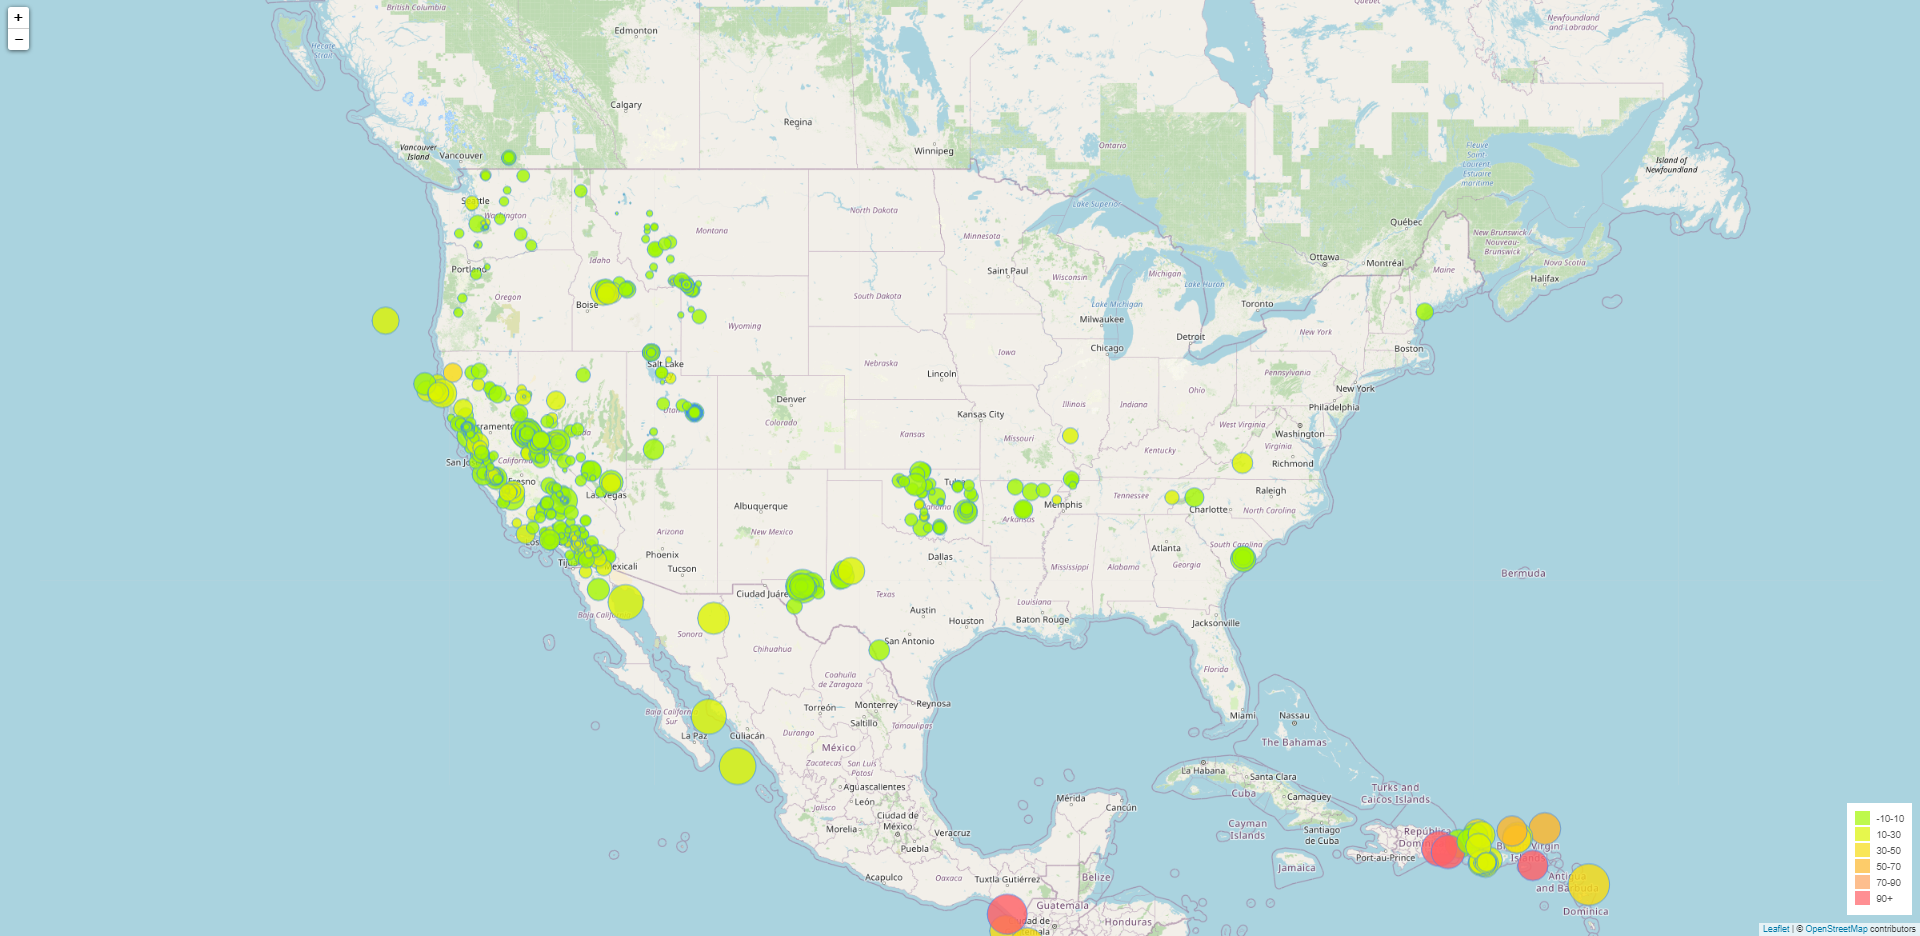
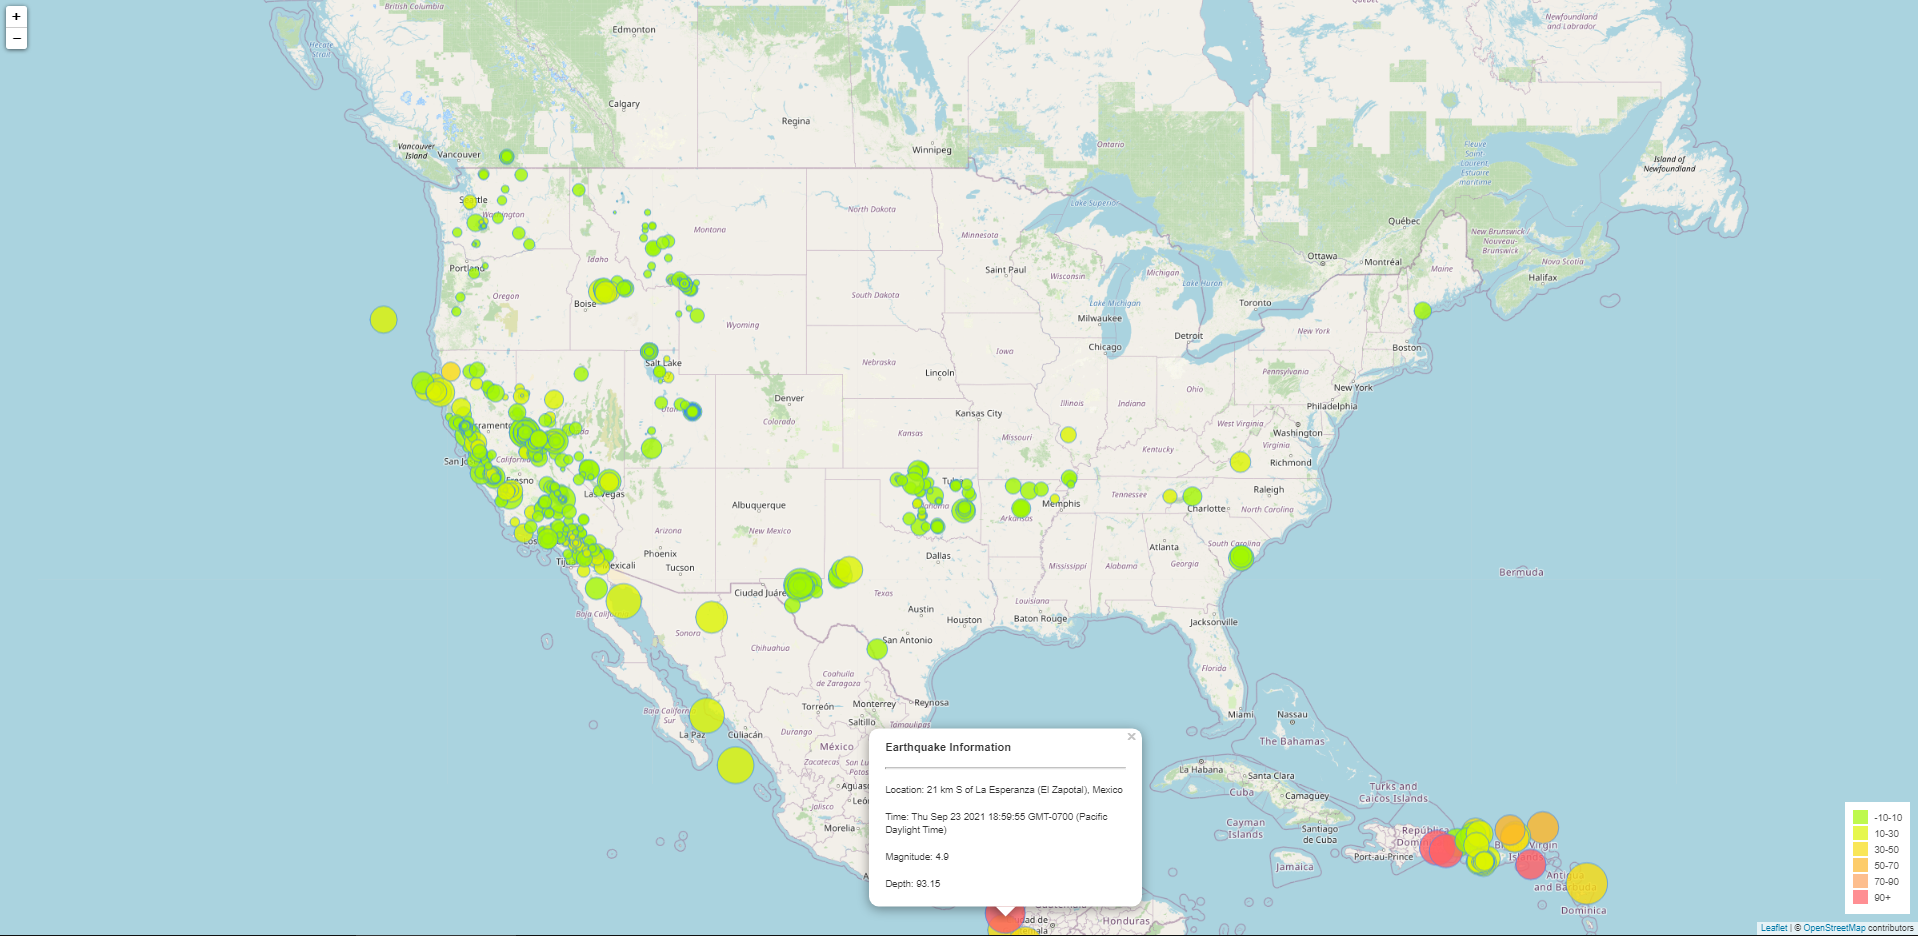
Revised popup tooltip and earthquake image

diff --git a/static/js/earthquakes.js b/static/js/earthquakes.js
@@ -53,7 +53,8 @@ console.log(data.features)
             layer.bindPopup(`<h3>Earthquake Information</h3><hr><p>
                                             Location: ${feature.properties.place}<br><br>
                                             Time: ${new Date(feature.properties.time)}<br><br>
-                                            Magnitude: ${feature.properties.mag}</p>`);
+                                            Magnitude: ${feature.properties.mag}<br><br>
+                                            Depth: ${feature.geometry.coordinates[2]}</p>`);
         }
     }).addTo(myMap);
 
